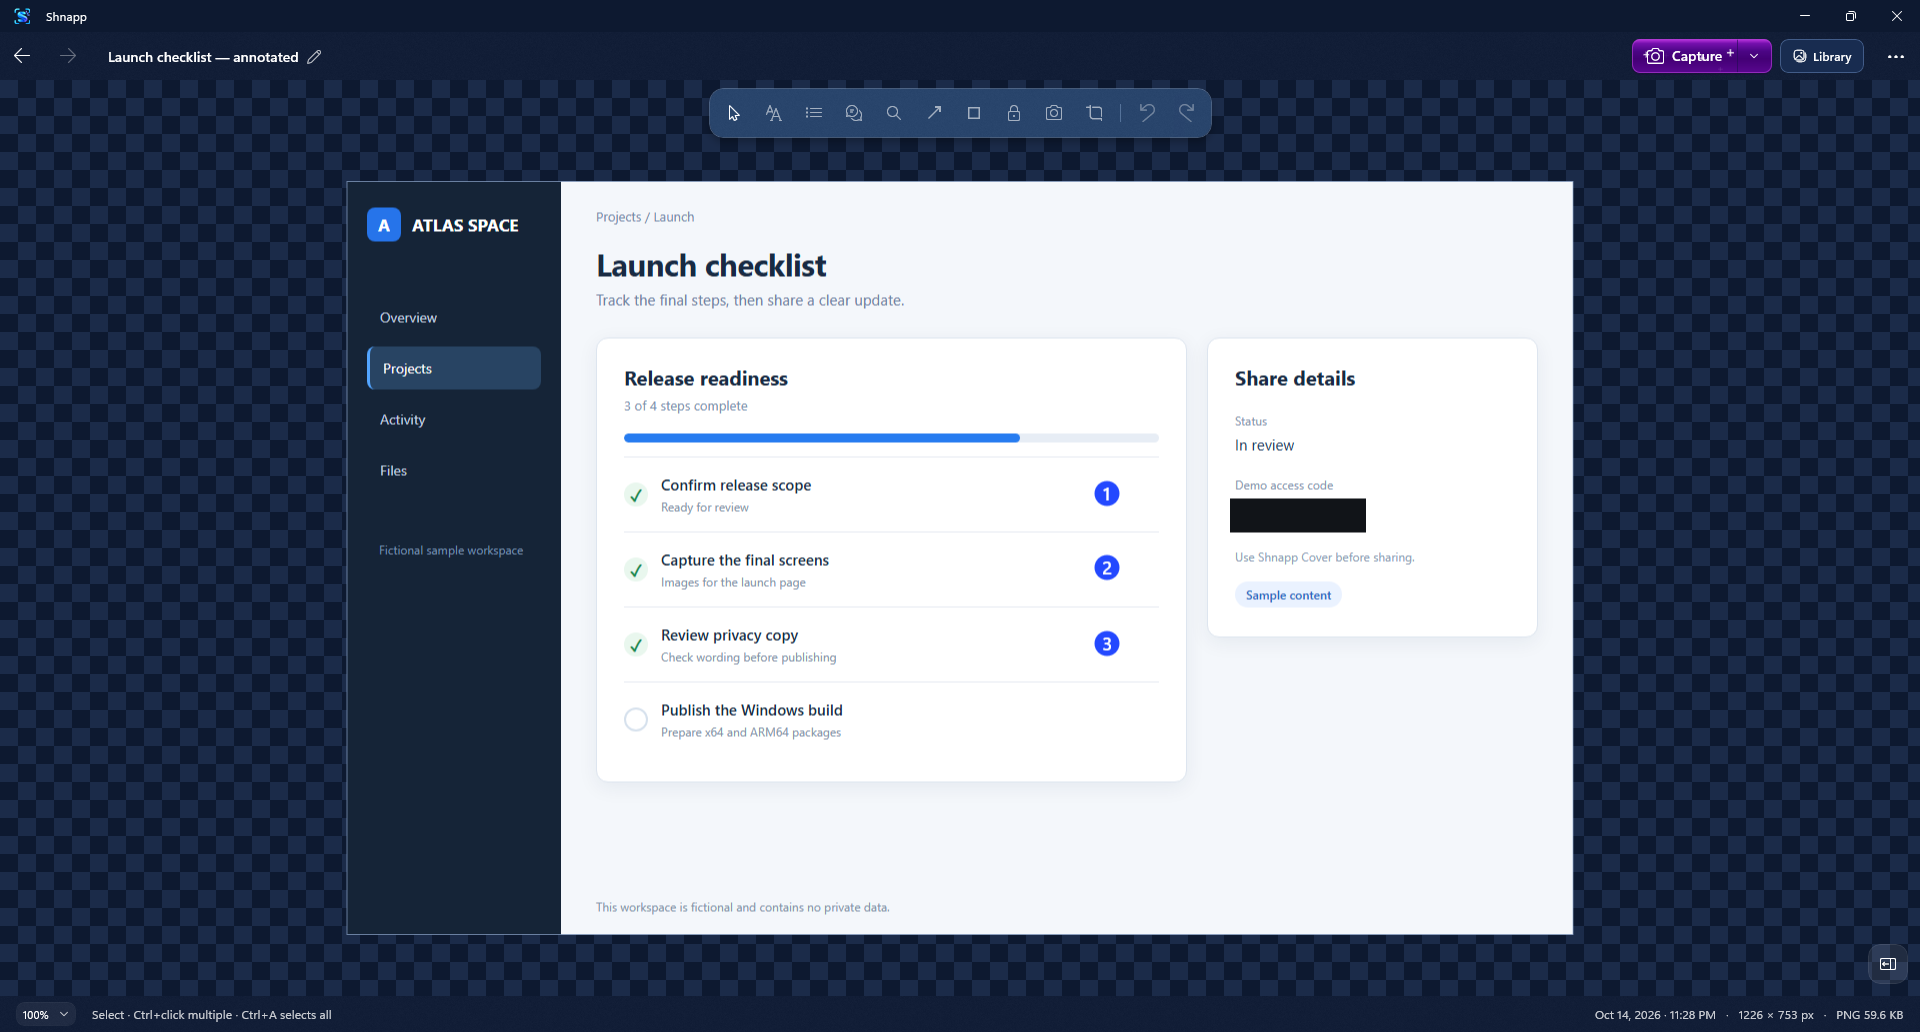
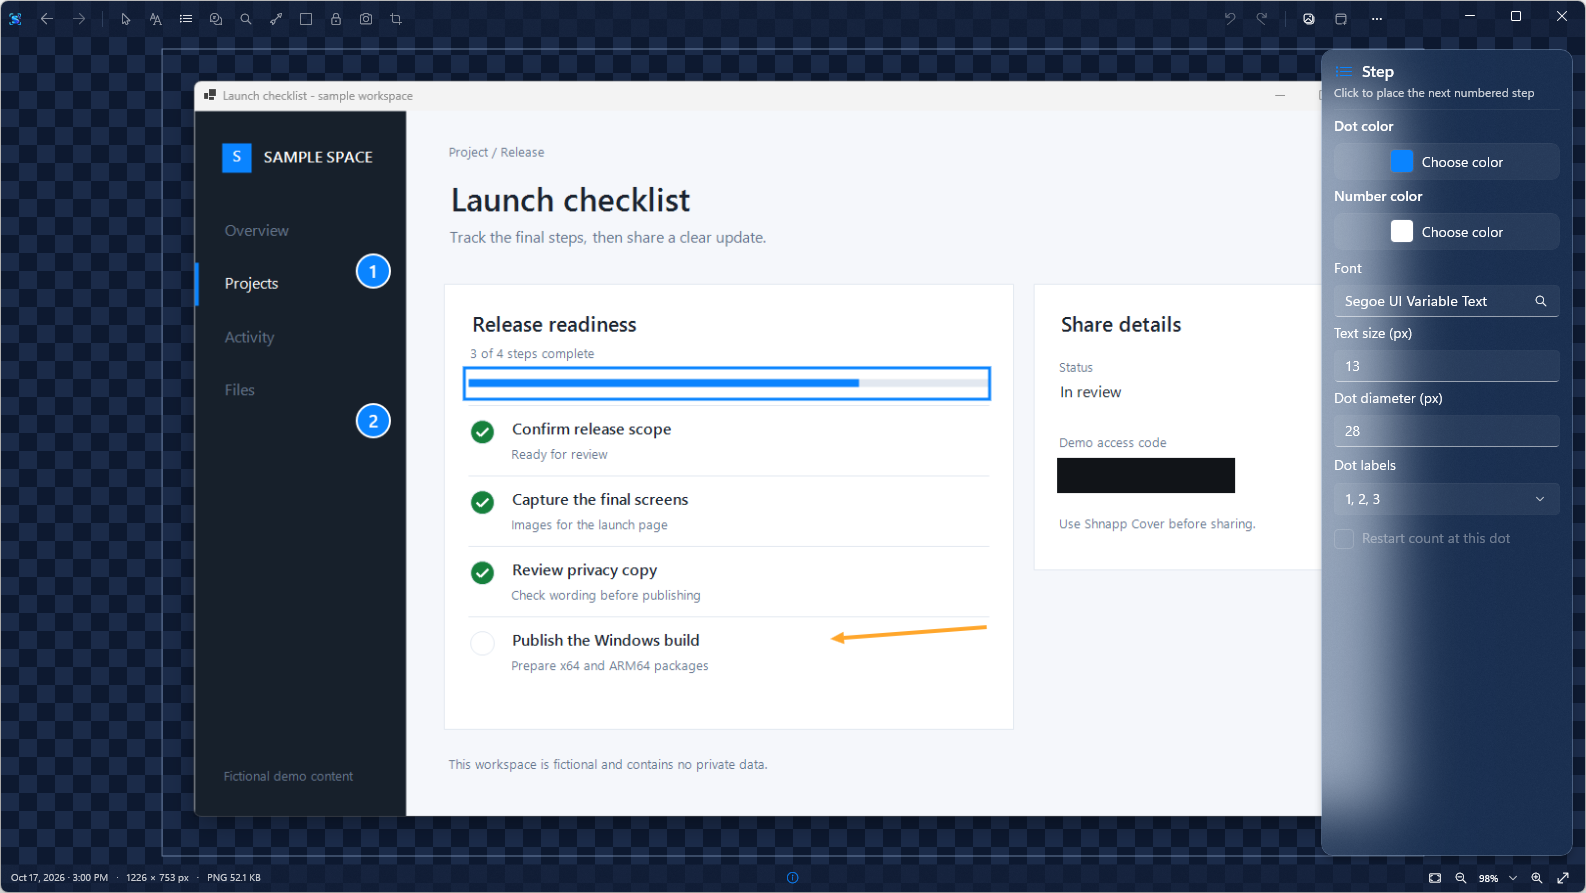
Document v2 features and refresh Store captures

diff --git a/README.md b/README.md
@@ -14,9 +14,19 @@
 
 Shnapp waits quietly in your tray until you need it. Capture part of your screen, add a little context, then copy the finished image or save a PNG. Every capture is a **shnapp**; making one is **shnapping**.
 
-![The Shnapp editor with a captured sample window, numbered steps, and contextual step options](src/Shnapp.Site/public/screenshots/editor.png)
+## See Shnapp in action
 
-*A real Shnapp editor session. Your capture stays in view while the tools stay close.*
+[Watch the 39-second Shnapp v2 tour](src/Shnapp.Site/public/demos/shnapp-workflow.mp4) for the full-window canvas, floating options, transforms, sharing actions, and local library. The app captures below use a fictional sample workspace.
+
+| Full-window canvas and acrylic options | Annotated editor |
+| --- | --- |
+| [![Landscape photo continuing behind Shnapp's translucent title bar, floating options panel, and footer](src/Shnapp.Site/public/screenshots/photo-canvas.png)](src/Shnapp.Site/public/screenshots/photo-canvas.png) | [![Fictional launch checklist annotated with steps, an outlined shape, privacy cover, and arrow](src/Shnapp.Site/public/screenshots/editor.png)](src/Shnapp.Site/public/screenshots/editor.png) |
+| **Rotate and flip** | **Local library** |
+| [![Transform context menu with horizontal and vertical flip plus clockwise rotation angles](src/Shnapp.Site/public/screenshots/rotate-transform.png)](src/Shnapp.Site/public/screenshots/rotate-transform.png) | [![Four fictional captures in the searchable Shnapp library](src/Shnapp.Site/public/screenshots/library.png)](src/Shnapp.Site/public/screenshots/library.png) |
+
+See the [unobstructed photo canvas](src/Shnapp.Site/public/screenshots/photo-canvas-clean.png), [rotation handle](src/Shnapp.Site/public/screenshots/editor-rotation.png), [magnifier, pixelate, and callout](src/Shnapp.Site/public/screenshots/editor-magnify.png), [empty library](src/Shnapp.Site/public/screenshots/empty-library.png), and [settings](src/Shnapp.Site/public/screenshots/settings-general.png).
+
+The landscape is [“Mountain lake in the autumn” by sayid he](https://commons.wikimedia.org/wiki/File:Mountain_lake_in_the_autumn_(Unsplash).jpg), available under [CC0 1.0](https://creativecommons.org/publicdomain/zero/1.0/). Video music is [“Cloud Dancer” by Kevin MacLeod](https://incompetech.com/music/royalty-free/index.html?isrc=USUAN2300007), licensed [CC BY 4.0](https://creativecommons.org/licenses/by/4.0/); the tour uses an edited excerpt with fades.
 
 ## Make a shnapp
 
@@ -36,11 +46,13 @@ The grabber freezes the visible desktop when capture starts, so moving content h
 
 ## Explain it in a few clicks
 
-The editor gives your capture room to breathe. Place a mark and it stays selected: changes in the side panel update that mark right away. Select an earlier mark to adjust it, or drag its handles to resize it. When nothing is selected, your choices set up the next mark.
+The editor gives your capture the full window, including the area behind its translucent title bar and compact footer. The title bar keeps navigation, tools, camera, library, and actions together. File details sit at the left of the footer, the info-panel toggle stays centered, and fit, zoom, and full-screen controls sit at the right. The acrylic options panel floats over the image and changes with the selected tool without resizing the canvas. Place a mark and it stays selected: changes in the panel update that mark right away. Select an earlier mark to adjust it, or drag its handles to resize it. When nothing is selected, your choices set up the next mark.
 
 Paste with `Ctrl+V` to turn copied words into an editable text mark or a copied picture into a movable image. If either reaches past the capture, Shnapp grows the transparent canvas around it. Remove or move that mark and the unused space falls away.
 
 To work with several marks at once, `Ctrl+click` each element to add or remove it from the selection, or press `Ctrl+A` to select every visible editable element. An outline shows the selected group. Drag any selected element to move the group; hold Shift while dragging to keep the move horizontal or vertical. You can also nudge the group with the arrow keys, one pixel at a time or ten with Shift. Moving the group past the current canvas extends the transparent canvas around it. Press `Esc` to clear the group selection.
+
+To rotate a selected element, drag the small circular handle above the middle of its top edge. This works for text, callouts, steps, lines, shapes, privacy marks, magnifiers, and photo layers. The image remains continuous behind the title bar, panel, and footer as you zoom or pan.
 
 - **Text:** click once to write without a box; your words can grow in width or across lines. Drag to draw a fixed width and height when text needs to fit a specific space. Choose whether overflow is clipped or ends with an ellipsis, align text horizontally and vertically, and set its line height. Style selected words with bold, italic, or underline, and use Windows spelling suggestions while editing. The font picker previews each choice as you move through it with the arrow keys. Press Enter for another line, `Ctrl+Enter` to finish, or double-click placed text to rewrite it.
 - **Callouts:** enter an explanation, then point to the detail it describes. Shnapp numbers the callout and positions its text outside the image, with a leader line back to the point. Edit the text to have the layout measured again.
@@ -51,7 +63,7 @@ To work with several marks at once, `Ctrl+click` each element to add or remove i
 
 Draw a crop and drag it into place, use exact X, Y, width, and height values, lock proportions, or pick a ratio such as 1:1, 9:16, or 5:7. The crosshair stays visible while you position and draw a crop, with a live size readout; press `Esc` to cancel crop mode and return to Select. Text, steps, lines, shapes, and privacy tools each show a placement cursor while active. Scroll the canvas to zoom; hold Space and drag with the hand cursor to pan with a short, gentle glide. Hold Shift while resizing a single mark to keep its proportions. Click a number field, then scroll to change it by one; hold Shift for ten. Undo or redo as you go. Window captures get a soft drop shadow by default.
 
-Right-click any placed element, including an image pasted from the clipboard or dragged from the gallery, to clone it, delete it, change which marks sit in front, or **Flatten** it. With a group selected, right-click one of its elements to clone, delete, or flatten the whole group. Flatten rasterizes each selected element in place so it can no longer be selected, moved, or edited; use Undo (`Ctrl+Z`) to restore the editable elements. `Ctrl+D` duplicates the selection, and `Delete` removes it. For a single element, `Ctrl+]` moves it to the front and `Ctrl+[` moves it to the back.
+Right-click any placed element, including an image pasted from the clipboard or dragged from the gallery, to clone it, change which marks sit in front, transform it, flatten it, or delete it. **Transform** offers horizontal and vertical flips plus 45°, 90°, 135°, and 180° rotations in either direction. With a group selected, right-click one of its elements to apply a transform to the whole group in one undo step, or to clone, flatten, or delete the group. Flatten rasterizes each selected element in place so it can no longer be selected, moved, or edited; use Undo (`Ctrl+Z`) to restore the editable elements. `Ctrl+D` duplicates the selection, and `Delete` removes it. For a single element, `Ctrl+]` moves it to the front and `Ctrl+[` moves it to the back.
 
 When it looks right, choose **Copy** (`Ctrl+C`) from the toolbar menu to put the finished image on your clipboard with its transparent areas intact, or **Save** (`Ctrl+S`) to export a PNG. Close the window when you're finished; Shnapp stays ready in the tray. The menu also offers Windows Share, Copy full path, and Delete shnapp.
 
@@ -64,10 +76,6 @@ Right-click an item to clone, rename, share, delete, or copy its saved PNG path.
 Back and Forward retrace the places you visited. You can also use `Alt+Left`, `Alt+Right`, or your mouse's Back and Forward buttons. Click the title above an open shnapp to rename it. An empty library offers a quick start, and you can opt in to launching Shnapp at sign-in so it is ready in the tray.
 
 While editing, move to the canvas's left edge to reveal a small image-only gallery over your work, or open it with `Ctrl+Shift+G` or **Recent shnapps** in the menu. Hover to magnify nearby previews, use the arrows or scroll to browse, click a preview to open it, or drag one onto your canvas to add a copy as a movable image layer. Small cropped previews keep browsing quick.
-
-![The Shnapp library showing three locally saved fictional captures with preview thumbnails, dates, dimensions, and file sizes](src/Shnapp.Site/public/screenshots/library.png)
-
-*Your shnapps stay on this PC, with previews that make the right capture easy to find.*
 
 ## Your captures stay yours
 

diff --git a/packaging/store/LISTING-DRAFT.md b/packaging/store/LISTING-DRAFT.md
@@ -39,14 +39,14 @@ Capture, annotate, and share screenshots from a Windows 11 tray app. Keep editab
 
 Shnapp helps you turn a screenshot into something you can explain and share. Start a capture from the tray or with a keyboard shortcut, choose a region, a window, or the display under your pointer, then edit the image before exporting it.
 
-Add text, arrows, lines, shapes, numbered or lettered steps, and pasted images. Crop the result or hide details with Cover, Blur, and Pixelate. Copy the finished image, save it as a PNG, or open the Windows share sheet.
+Add text, arrows, lines, shapes, numbered or lettered steps, and pasted images. Rotate or flip editable marks, crop the result, or hide details with Cover, Blur, and Pixelate. Copy the finished image, save it as a PNG, or open the Windows share sheet.
 
 Your editable captures stay in a searchable local library on your Windows device. Shnapp works without an account or cloud service. Launch at sign-in is optional. Updates to the Store edition are delivered through Microsoft Store.
 
 **Product features** (enter each as a separate feature, without a bullet prefix)
 
 1. Capture a region, window, or display from the tray or keyboard.
-2. Annotate with text, arrows, shapes, steps, and pasted images.
+2. Annotate with text, arrows, shapes, steps, and pasted images; rotate or flip editable marks.
 3. Cover, blur, or pixelate sensitive areas before sharing.
 4. Copy, save a PNG, or use the Windows share sheet.
 5. Search, sort, and reopen captures from a local library.
@@ -68,9 +68,9 @@ Your editable captures stay in a searchable local library on your Windows device
 
 | Candidate | Current state | Store caption draft |
 | --- | --- | --- |
-| Annotated editor | [01-editor-annotated.png](screenshots/01-editor-annotated.png), 1920 × 1032. Current v2 editor with numbered steps and a covered fictional access code. | Add context with numbered steps and cover sensitive details before sharing. |
-| Region capture | [02-region-capture.png](screenshots/02-region-capture.png), 1920 × 1032. Current v2 editor with a fictional region capture. | Keep a region capture editable for review and export. |
-| Library | [03-library.png](screenshots/03-library.png), 1920 × 1032. Current v2 library with four fictional local captures. | Find and reopen editable captures in your local library. |
-| Clean editor | [04-editor-clean.png](screenshots/04-editor-clean.png), 1920 × 1032. Current v2 editor with an unannotated fictional project overview. | Start with a capture, then choose the details to emphasize. |
+| Annotated editor | [01-editor-annotated.png](screenshots/01-editor-annotated.png), 1586 × 893. Current v2 editor with numbered steps and a covered fictional access code. | Add context with numbered steps and cover sensitive details before sharing. |
+| Photo canvas | [02-photo-canvas.png](screenshots/02-photo-canvas.png), 1586 × 893. The photo continues behind the translucent title bar, footer, and floating options panel. | Keep the whole picture in view while adjusting tools and zoom. |
+| Library | [03-library.png](screenshots/03-library.png), 1586 × 893. Current v2 library with four local sample captures. | Find and reopen editable captures in your local library. |
+| Transform | [04-transform.png](screenshots/04-transform.png), 1600 × 900. The selected element's context menu offers flips and preset rotations. | Rotate and flip editable elements right on the canvas. |
 
-The four images are genuine v2 app captures made with an isolated `--data-root` and fictional fixture content; no personal capture library was used. All four were visually reviewed at 1920 × 1032 and are below 50 MB. The previous Feedback image was removed because it showed the older interface. The 1106-pixel-wide website captures do not meet the 1366-pixel Store minimum. The transparent picker overlay did not render in the earlier screenshot capture, so it is omitted. `src/Shnapp.App/Assets/Square150x150Logo.scale-200.png` is an existing 300 × 300 transparent Shnapp icon and is a candidate for the recommended Store tile icon; inspect its appearance on both light and dark backgrounds before upload and in Partner Center's package preview.
+The four images are genuine v2 app captures made with an isolated `--data-root`; the sample workspace is fictional and no personal capture library was used. All four exceed the 1366 × 768 Store minimum and are below 50 MB. The landscape is [“Mountain lake in the autumn” by sayid he](https://commons.wikimedia.org/wiki/File:Mountain_lake_in_the_autumn_(Unsplash).jpg), available under [CC0 1.0](https://creativecommons.org/publicdomain/zero/1.0/). The previous Feedback image was removed because it showed the older interface. The transparent picker overlay did not render in the earlier screenshot capture, so it is omitted. `src/Shnapp.App/Assets/Square150x150Logo.scale-200.png` is an existing 300 × 300 transparent Shnapp icon and is a candidate for the recommended Store tile icon; inspect its appearance on both light and dark backgrounds before upload and in Partner Center's package preview.

diff --git a/CHANGELOG.md b/CHANGELOG.md
@@ -1,5 +1,19 @@
 # Changelog
 
+## Unreleased
+
+### Added
+
+- A rotation handle above each selected editable element, including lines and photo layers.
+- A **Transform** submenu for flipping selected elements horizontally or vertically and rotating them 45°, 90°, 135°, or 180° clockwise or counterclockwise. Group transforms can be undone in one step.
+
+### Changed
+
+- The editor canvas fills the window behind the translucent title bar, floating options panel, and compact footer. Opening the panel does not resize the canvas; zoom and pan keep the image continuous behind the chrome.
+- The compact title bar groups navigation and editing tools on the left, with undo, redo, library, capture, and the actions menu on the right. The footer places metadata on the left, the info-panel toggle in the center, and fit, zoom, and full-screen controls on the right.
+- Tool options use an acrylic panel over the canvas and animate when the panel or selected tool changes.
+- The website and README include new v2 screenshots and a feature tour with licensed music and photography.
+
 ## 2.0.0
 
 ### Added
